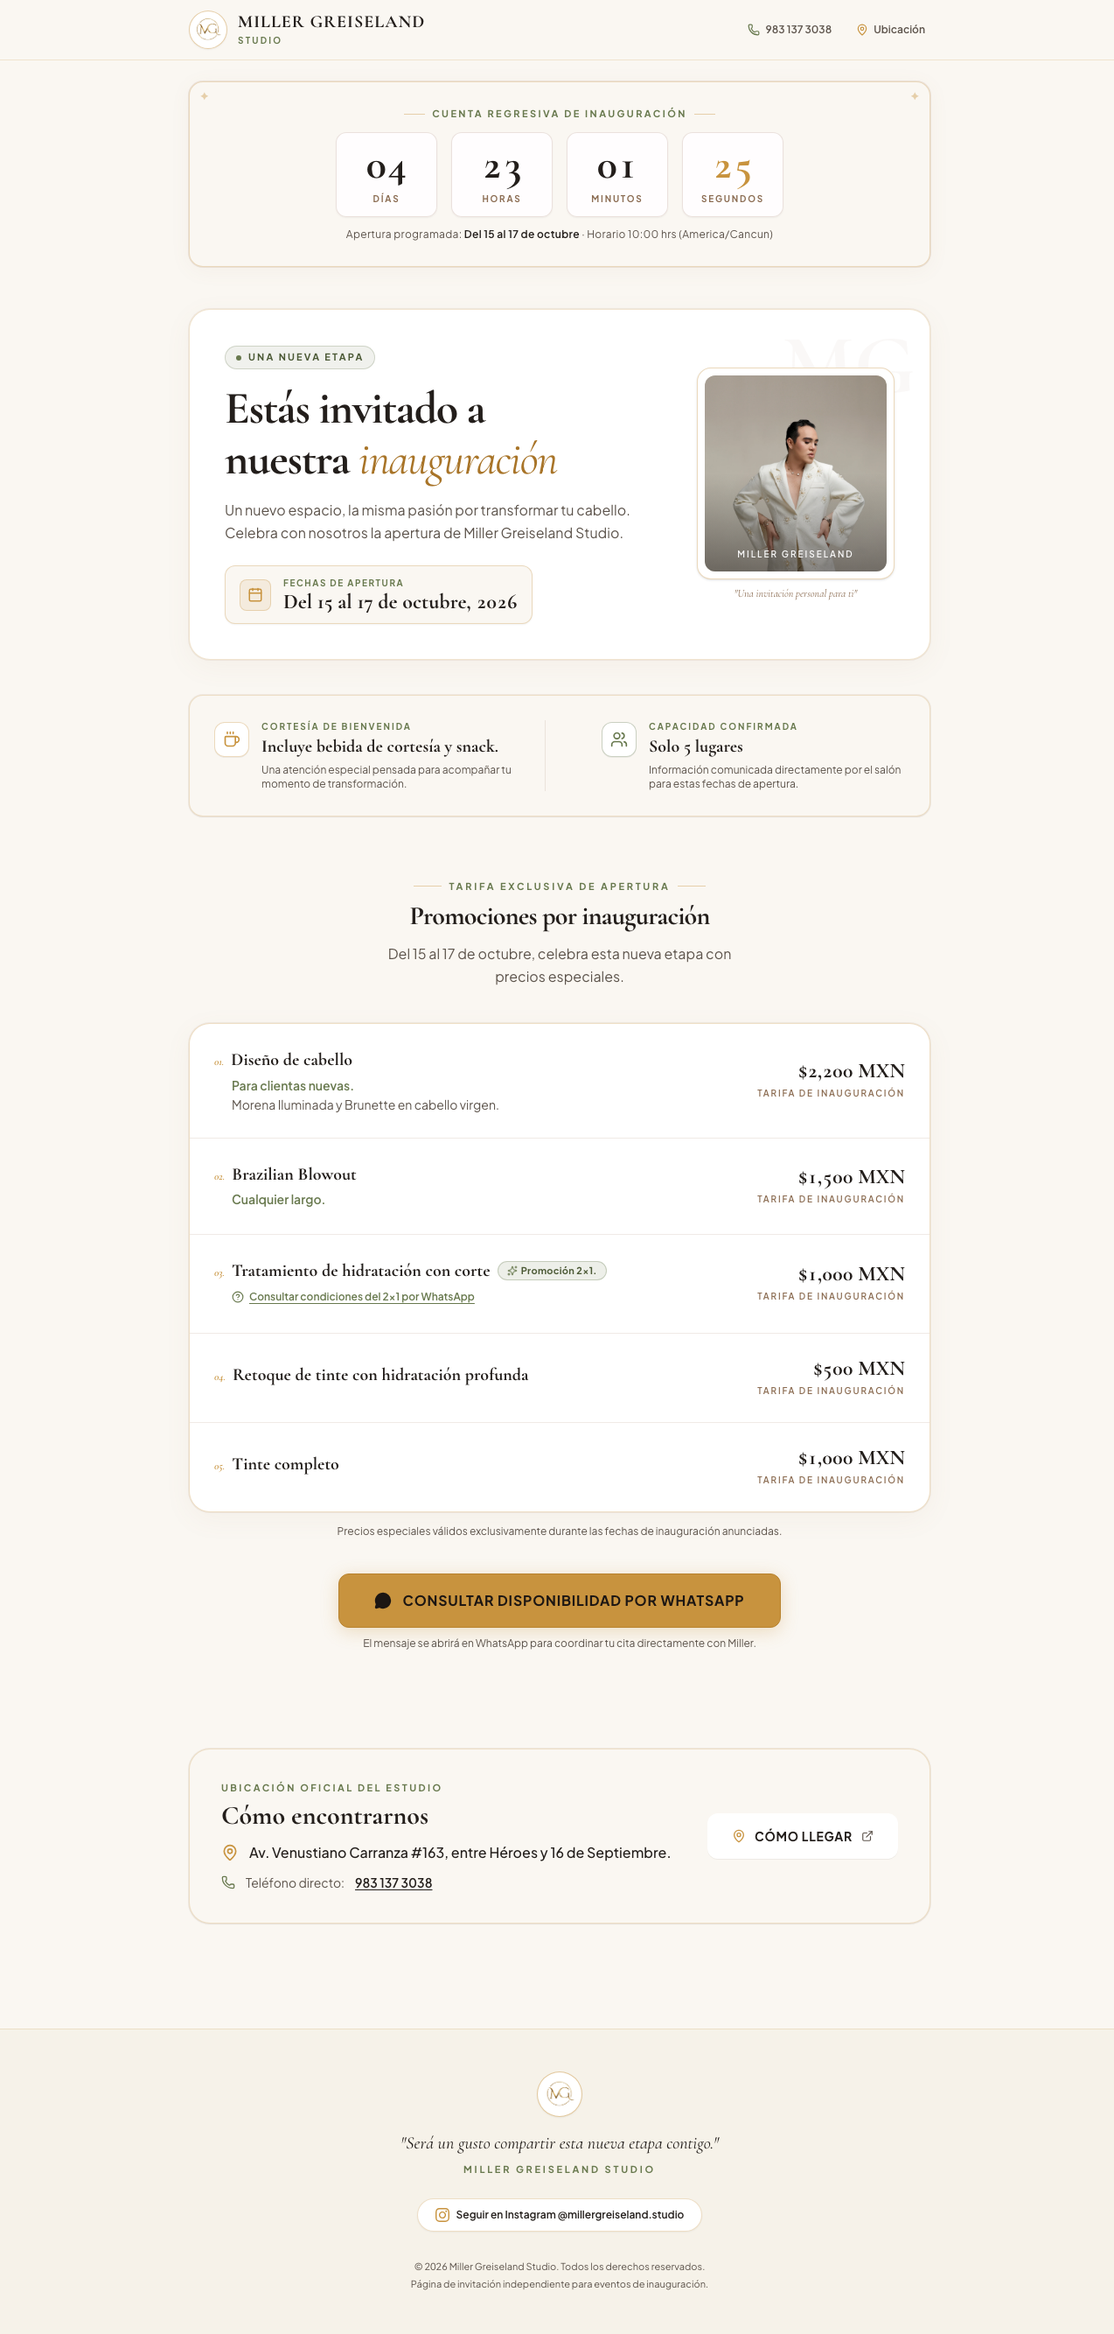
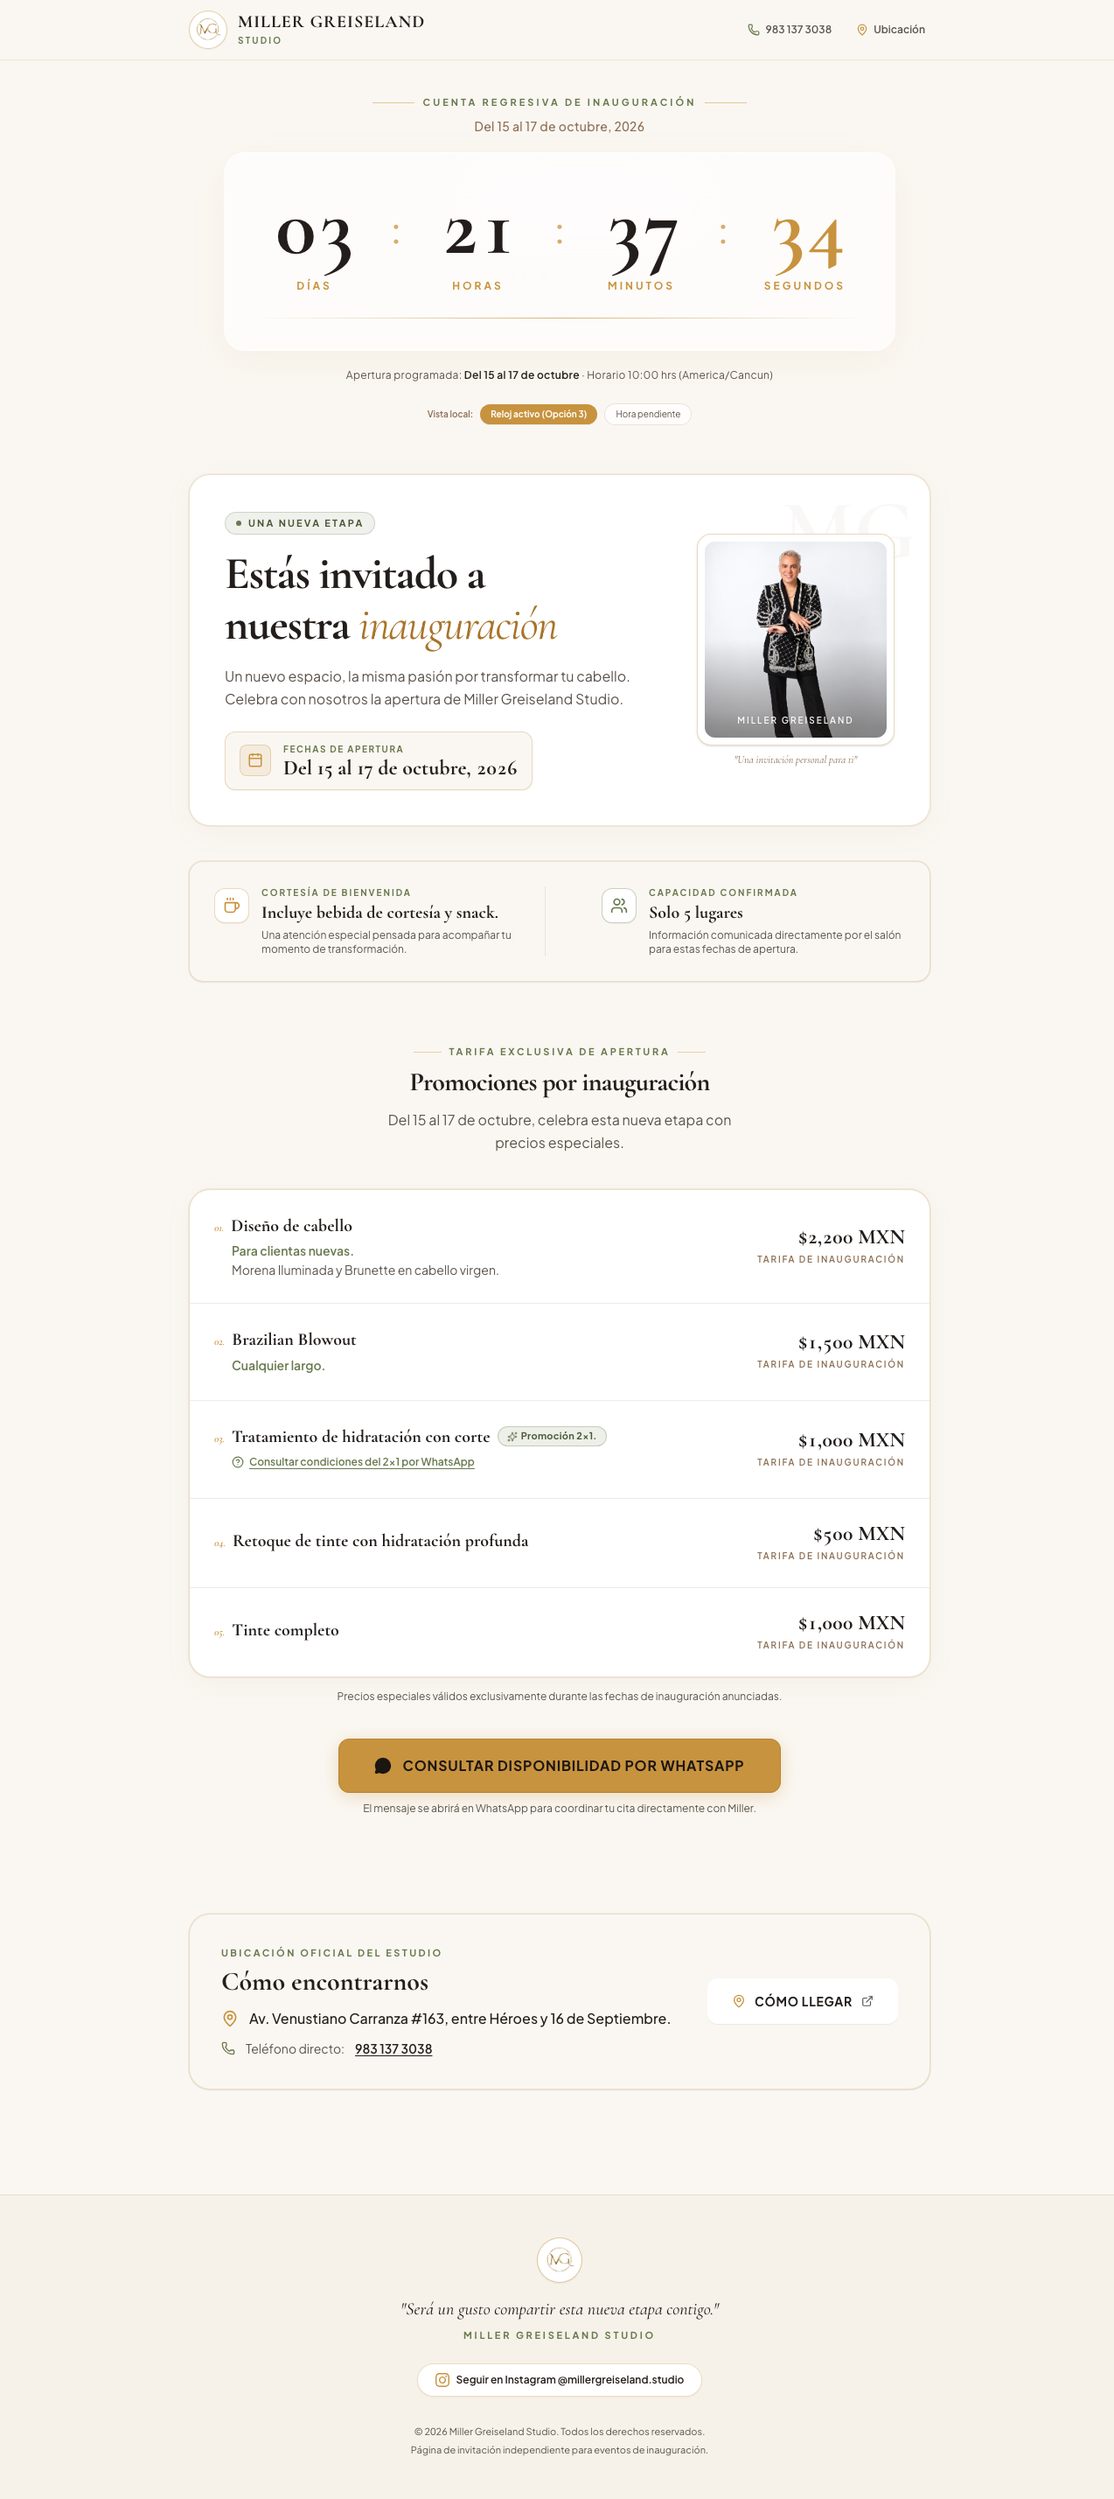
feat: implementar reloj flotante translúcido (opción 3) y actualizar foto oficial de miller

diff --git a/src/components/CountdownSection.tsx b/src/components/CountdownSection.tsx
@@ -1,5 +1,5 @@
 import React, { useState, useEffect } from 'react';
-import { Sparkles, Calendar } from 'lucide-react';
+import { Sparkles, Calendar, Clock } from 'lucide-react';
 import { INAUGURATION_CONFIG } from '../config/inauguration';
 import { calculateCountdown } from '../utils/countdown';
 import type { CountdownState } from '../types/inauguration';
@@ -14,146 +14,228 @@ export const CountdownSection: React.FC = () => {
     hero,
   } = INAUGURATION_CONFIG;
 
+  // Estado interactivo para previsualización local de la Opción 3
+  // En localhost se activa por defecto '11:00' para apreciar el reloj en vivo con números gigantes
+  const [demoTime, setDemoTime] = useState<string | null>(() => {
+    if (typeof window !== 'undefined') {
+      const params = new URLSearchParams(window.location.search);
+      if (params.get('hora') || params.get('time')) {
+        return params.get('hora') || params.get('time');
+      }
+      if (params.get('pendiente') === 'true' || params.get('unconfirmed') === 'true') {
+        return null;
+      }
+    }
+    return inaugurationTime ?? '11:00';
+  });
+
   const [state, setState] = useState<CountdownState>(() =>
-    calculateCountdown(startDateIso, inaugurationTime, timeZone)
+    calculateCountdown(startDateIso, demoTime, timeZone)
   );
 
   useEffect(() => {
-    if (!inaugurationTime || inaugurationTime.trim() === '') {
+    if (!demoTime || demoTime.trim() === '') {
       setState(calculateCountdown(startDateIso, null, timeZone));
       return;
     }
 
     const update = () => {
-      const next = calculateCountdown(startDateIso, inaugurationTime, timeZone);
+      const next = calculateCountdown(startDateIso, demoTime, timeZone);
       setState(next);
     };
 
     update();
     const intervalId = window.setInterval(update, 1000);
     return () => window.clearInterval(intervalId);
-  }, [startDateIso, inaugurationTime, timeZone]);
+  }, [startDateIso, demoTime, timeZone]);
 
   return (
     <section
-      className="pt-6 pb-2 px-4 sm:px-6 max-w-4xl mx-auto"
+      id="cuenta-regresiva"
+      className="pt-6 sm:pt-10 pb-4 px-3 sm:px-6 max-w-4xl mx-auto text-center"
       aria-labelledby="countdown-heading"
     >
-      {/* Marco de alta papelería editorial */}
-      <div className="relative bg-[#FAF7F2] border border-[#C8933E]/30 ring-1 ring-[#99745A]/15 rounded-2xl p-5 sm:p-7 shadow-[0_4px_24px_rgba(153,116,90,0.06)] text-center overflow-hidden">
-        {/* Adorno sutil de esquina en orfebrería */}
-        <div className="absolute top-2 left-3 text-[#C8933E]/40 text-xs select-none">✦</div>
-        <div className="absolute top-2 right-3 text-[#C8933E]/40 text-xs select-none">✦</div>
+      {/* Encabezado editorial flotante sobre el lienzo marfil */}
+      <div className="flex items-center justify-center gap-2.5 mb-2">
+        <span className="w-8 sm:w-12 h-[1px] bg-[#C8933E]/50"></span>
+        <span className="text-[10px] sm:text-[11px] font-bold text-[#68794E] uppercase tracking-[0.28em]">
+          Cuenta regresiva de inauguración
+        </span>
+        <span className="w-8 sm:w-12 h-[1px] bg-[#C8933E]/50"></span>
+      </div>
 
-        {/* Encabezado del contador */}
-        <div className="flex items-center justify-center gap-2 mb-2">
-          <span className="w-6 h-[1px] bg-[#C8933E]/40"></span>
-          <span className="text-[10px] sm:text-[11px] font-bold text-[#68794E] uppercase tracking-[0.22em]">
-            Cuenta regresiva de inauguración
-          </span>
-          <span className="w-6 h-[1px] bg-[#C8933E]/40"></span>
-        </div>
+      {/* Fechas de apertura */}
+      <p className="text-xs sm:text-sm font-medium text-[#8C6D53] tracking-wide mb-3">
+        {datesDisplay}, <span className="tabular-numbers">{year}</span>
+      </p>
 
-        {/* Caso A: Hora aún no configurada */}
-        {!state.isConfigured && (
-          <div className="py-2">
-            <h2
-              id="countdown-heading"
-              className="font-serif-luxury text-2xl sm:text-3xl font-bold text-[#231E1B] mb-2"
-            >
-              {hero.pendingTimeNotice}
-            </h2>
-            <p className="text-xs sm:text-sm text-[#5C534B] max-w-md mx-auto mb-3">
-              Estamos preparando cada detalle para recibirte. El horario oficial de apertura será
-              confirmado próximamente.
-            </p>
-            <div className="inline-flex items-center gap-2 px-3.5 py-1.5 rounded-full bg-white border border-[#99745A]/20 text-xs font-semibold text-[#231E1B]">
-              <Calendar className="w-3.5 h-3.5 text-[#C8933E]" aria-hidden="true" />
-              <span>
-                {datesDisplay} de <span className="tabular-numbers">{year}</span>
-              </span>
-            </div>
-          </div>
-        )}
+      {/* ========================================================
+          ESTADO A: RELOJ ACTIVO — PROPUESTA 3 (VITRINA FLOTANTE)
+         ======================================================== */}
+      {state.isConfigured && !state.isPassed && (
+        <div className="relative">
+          <h2 id="countdown-heading" className="sr-only">
+            Inauguración en: {state.days} días, {state.hours} horas, {state.minutes} minutos y{' '}
+            {state.seconds} segundos
+          </h2>
 
-        {/* Caso B: Llegó el gran día */}
-        {state.isConfigured && state.isPassed && (
-          <div className="py-3 flex flex-col items-center">
-            <div className="w-10 h-10 rounded-full bg-[#C8933E]/15 border border-[#C8933E]/40 flex items-center justify-center text-[#C8933E] mb-2">
-              <Sparkles className="w-5 h-5 text-[#C8933E]" aria-hidden="true" />
-            </div>
-            <h2
-              id="countdown-heading"
-              className="font-serif-luxury text-3xl sm:text-4xl font-bold text-[#231E1B] mb-1"
-            >
-              {hero.eventStartedMessage}
-            </h2>
-            <p className="text-xs sm:text-sm text-[#5C534B]">
-              Nuestras puertas están abiertas para celebrar contigo en Miller Greiseland Studio.
-            </p>
-          </div>
-        )}
+          {/* Repisa / Cinta de cristal translúcida horizontal con remate dorado */}
+          <div className="relative my-3 sm:my-5 py-6 sm:py-9 px-3 sm:px-8 bg-white/60 backdrop-blur-md rounded-2xl sm:rounded-3xl border-t border-white/95 border-b border-[#C8933E]/40 shadow-[0_12px_40px_rgba(200,147,62,0.08)] max-w-3xl mx-auto overflow-hidden">
+            {/* Destello sutil de luz en el cristal */}
+            <div className="absolute top-0 left-1/3 w-80 h-28 bg-white/50 rounded-full blur-2xl pointer-events-none" />
 
-        {/* Caso C: Cuenta regresiva activa con cifras tabulares y estilo horología de lujo */}
-        {state.isConfigured && !state.isPassed && (
-          <div>
-            <h2 id="countdown-heading" className="sr-only">
-              Inauguración en: {state.days} días, {state.hours} horas, {state.minutes} minutos y{' '}
-              {state.seconds} segundos
-            </h2>
-
-            {/* Módulos de tiempo de alta precisión */}
+            {/* Contenedor horizontal de cifras monumentales y separadores de dos puntos */}
             <div
-              className="grid grid-cols-4 gap-2 sm:gap-4 max-w-lg mx-auto my-3"
+              className="relative z-10 flex items-center justify-center gap-1.5 xs:gap-3 sm:gap-6 md:gap-8 max-w-2xl mx-auto"
               aria-hidden="true"
             >
-              {/* Días */}
-              <div className="bg-white/90 border border-[#99745A]/20 rounded-xl py-3 px-1 sm:px-2 flex flex-col items-center shadow-xs">
-                <span className="font-serif-luxury text-3xl sm:text-5xl font-bold text-[#231E1B] tabular-numbers leading-none">
+              {/* 1. DÍAS */}
+              <div className="flex flex-col items-center flex-1 min-w-0">
+                <span className="font-serif-luxury text-4xl xs:text-5xl sm:text-7xl md:text-8xl font-bold text-[#231E1B] tabular-numbers leading-none tracking-tight select-none">
                   {String(state.days).padStart(2, '0')}
                 </span>
-                <span className="text-[9px] sm:text-[10px] text-[#8C6D53] uppercase tracking-[0.18em] font-bold mt-2">
+                <span className="text-[9px] sm:text-xs text-[#C8933E] uppercase tracking-[0.25em] font-bold mt-2 sm:mt-3">
                   Días
                 </span>
               </div>
 
-              {/* Horas */}
-              <div className="bg-white/90 border border-[#99745A]/20 rounded-xl py-3 px-1 sm:px-2 flex flex-col items-center shadow-xs">
-                <span className="font-serif-luxury text-3xl sm:text-5xl font-bold text-[#231E1B] tabular-numbers leading-none">
+              {/* Separador de dos puntos */}
+              <div className="font-serif-luxury text-2xl xs:text-3xl sm:text-5xl md:text-6xl text-[#C8933E]/75 font-light select-none pb-4 sm:pb-7">
+                :
+              </div>
+
+              {/* 2. HORAS */}
+              <div className="flex flex-col items-center flex-1 min-w-0">
+                <span className="font-serif-luxury text-4xl xs:text-5xl sm:text-7xl md:text-8xl font-bold text-[#231E1B] tabular-numbers leading-none tracking-tight select-none">
                   {String(state.hours).padStart(2, '0')}
                 </span>
-                <span className="text-[9px] sm:text-[10px] text-[#8C6D53] uppercase tracking-[0.18em] font-bold mt-2">
+                <span className="text-[9px] sm:text-xs text-[#C8933E] uppercase tracking-[0.25em] font-bold mt-2 sm:mt-3">
                   Horas
                 </span>
               </div>
 
-              {/* Minutos */}
-              <div className="bg-white/90 border border-[#99745A]/20 rounded-xl py-3 px-1 sm:px-2 flex flex-col items-center shadow-xs">
-                <span className="font-serif-luxury text-3xl sm:text-5xl font-bold text-[#231E1B] tabular-numbers leading-none">
+              {/* Separador de dos puntos */}
+              <div className="font-serif-luxury text-2xl xs:text-3xl sm:text-5xl md:text-6xl text-[#C8933E]/75 font-light select-none pb-4 sm:pb-7">
+                :
+              </div>
+
+              {/* 3. MINUTOS */}
+              <div className="flex flex-col items-center flex-1 min-w-0">
+                <span className="font-serif-luxury text-4xl xs:text-5xl sm:text-7xl md:text-8xl font-bold text-[#231E1B] tabular-numbers leading-none tracking-tight select-none">
                   {String(state.minutes).padStart(2, '0')}
                 </span>
-                <span className="text-[9px] sm:text-[10px] text-[#8C6D53] uppercase tracking-[0.18em] font-bold mt-2">
+                <span className="text-[9px] sm:text-xs text-[#C8933E] uppercase tracking-[0.25em] font-bold mt-2 sm:mt-3">
                   Minutos
                 </span>
               </div>
 
-              {/* Segundos */}
-              <div className="bg-white/90 border border-[#99745A]/20 rounded-xl py-3 px-1 sm:px-2 flex flex-col items-center shadow-xs">
-                <span className="font-serif-luxury text-3xl sm:text-5xl font-bold text-[#C8933E] tabular-numbers leading-none">
+              {/* Separador de dos puntos */}
+              <div className="font-serif-luxury text-2xl xs:text-3xl sm:text-5xl md:text-6xl text-[#C8933E]/75 font-light select-none pb-4 sm:pb-7">
+                :
+              </div>
+
+              {/* 4. SEGUNDOS */}
+              <div className="flex flex-col items-center flex-1 min-w-0">
+                <span className="font-serif-luxury text-4xl xs:text-5xl sm:text-7xl md:text-8xl font-bold text-[#C8933E] tabular-numbers leading-none tracking-tight select-none">
                   {String(state.seconds).padStart(2, '0')}
                 </span>
-                <span className="text-[9px] sm:text-[10px] text-[#8C6D53] uppercase tracking-[0.18em] font-bold mt-2">
+                <span className="text-[9px] sm:text-xs text-[#C8933E] uppercase tracking-[0.25em] font-bold mt-2 sm:mt-3">
                   Segundos
                 </span>
               </div>
             </div>
 
-            <p className="text-[11px] sm:text-xs text-[#5C534B] tracking-wide mt-2">
-              Apertura programada: <span className="font-semibold text-[#231E1B]">{datesDisplay}</span> · Horario {inaugurationTime} hrs ({timeZone})
-            </p>
+            {/* Línea dorada milimétrica al pie de la repisa de cristal */}
+            <div className="mt-5 sm:mt-7 h-[1.5px] bg-gradient-to-r from-transparent via-[#C8933E]/70 to-transparent w-full" />
           </div>
-        )}
-      </div>
+
+          <p className="text-[11px] sm:text-xs text-[#5C534B] tracking-wide mt-2.5">
+            Apertura programada: <span className="font-semibold text-[#231E1B]">{datesDisplay}</span> · Horario {demoTime} hrs ({timeZone})
+          </p>
+        </div>
+      )}
+
+      {/* ========================================================
+          ESTADO B: HORA POR CONFIRMAR
+         ======================================================== */}
+      {!state.isConfigured && (
+        <div className="relative py-2 sm:py-3 max-w-xl mx-auto">
+          <div className="relative my-2 py-6 sm:py-8 px-4 sm:px-8 bg-white/60 backdrop-blur-md rounded-2xl sm:rounded-3xl border-t border-white/95 border-b border-[#C8933E]/35 shadow-[0_10px_35px_rgba(200,147,62,0.06)] overflow-hidden">
+            <div className="flex items-center justify-center gap-2 text-[#C8933E] mb-2">
+              <Clock className="w-4 h-4 text-[#C8933E]" aria-hidden="true" />
+              <span className="text-[10px] uppercase tracking-[0.24em] font-bold">
+                Apertura de puertas
+              </span>
+            </div>
+            <h2
+              id="countdown-heading"
+              className="font-serif-luxury text-2xl sm:text-3.5xl font-bold text-[#231E1B] mb-2"
+            >
+              {hero.pendingTimeNotice}
+            </h2>
+            <p className="text-xs sm:text-sm text-[#5C534B] leading-relaxed max-w-md mx-auto mb-4">
+              Estamos preparando cada detalle para recibirte. El horario oficial de apertura será
+              confirmado próximamente para activar el reloj en vivo.
+            </p>
+            <div className="inline-flex items-center gap-2 px-4 py-1.5 rounded-full bg-white/80 border border-[#C8933E]/30 text-xs font-semibold text-[#231E1B] shadow-2xs">
+              <Calendar className="w-3.5 h-3.5 text-[#C8933E]" aria-hidden="true" />
+              <span>
+                {datesDisplay} de <span className="tabular-numbers">{year}</span>
+              </span>
+            </div>
+            <div className="mt-5 h-[1.5px] bg-gradient-to-r from-transparent via-[#C8933E]/50 to-transparent w-full" />
+          </div>
+        </div>
+      )}
+
+      {/* ========================================================
+          ESTADO C: EVENTO EN CURSO (15-17 OCT)
+         ======================================================== */}
+      {state.isConfigured && state.isPassed && (
+        <div className="relative py-4 flex flex-col items-center max-w-xl mx-auto">
+          <div className="w-12 h-12 rounded-full bg-[#C8933E]/15 border border-[#C8933E]/40 flex items-center justify-center text-[#C8933E] mb-2 shadow-xs">
+            <Sparkles className="w-6 h-6 text-[#C8933E]" aria-hidden="true" />
+          </div>
+          <h2
+            id="countdown-heading"
+            className="font-serif-luxury text-3xl sm:text-4xl font-bold text-[#231E1B] mb-1"
+          >
+            {hero.eventStartedMessage}
+          </h2>
+          <p className="text-xs sm:text-sm text-[#5C534B]">
+            Nuestras puertas están abiertas para celebrar contigo en Miller Greiseland Studio.
+          </p>
+        </div>
+      )}
+
+      {/* Selector sutil para alternar vista en desarrollo/revisión local */}
+      {(import.meta.env.DEV || (typeof window !== 'undefined' && new URLSearchParams(window.location.search).has('dev'))) && (
+        <div className="mt-4 pt-2 flex flex-wrap items-center justify-center gap-2 text-[10px] text-[#5C534B]">
+          <span className="font-semibold text-[#8C6D53]">Vista de prueba:</span>
+          <button
+            type="button"
+            onClick={() => setDemoTime('10:00')}
+            className={`px-3 py-1 rounded-full transition-colors cursor-pointer ${
+              demoTime !== null
+                ? 'bg-[#C8933E] text-white font-bold shadow-2xs'
+                : 'bg-white/80 text-[#5C534B] hover:bg-white border border-[#99745A]/20'
+            }`}
+          >
+            Reloj activo (Opción 3)
+          </button>
+          <button
+            type="button"
+            onClick={() => setDemoTime(null)}
+            className={`px-3 py-1 rounded-full transition-colors cursor-pointer ${
+              demoTime === null
+                ? 'bg-[#C8933E] text-white font-bold shadow-2xs'
+                : 'bg-white/80 text-[#5C534B] hover:bg-white border border-[#99745A]/20'
+            }`}
+          >
+            Hora pendiente
+          </button>
+        </div>
+      )}
     </section>
   );
 };

diff --git a/src/config/inauguration.ts b/src/config/inauguration.ts
@@ -25,7 +25,7 @@ export const INAUGURATION_CONFIG: InaugurationConfig = {
     studioName: 'Miller Greiseland Studio',
     logoUrl: '/logo-miller.png',
     logoFallbackUrl: '/logo-miller.jpeg',
-    millerPortraitUrl: '/miller-greiseland.webp',
+    millerPortraitUrl: '/miller-greiseland.png',
     signature: 'Miller Greiseland Studio',
   },
 
